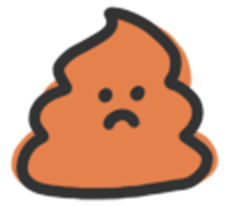
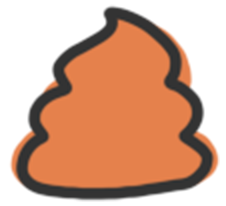
画像決まったのでオブジェクトのドロップ率使用を元に戻した

Changed region(s): [[0.4336, 0.4078, 0.6195, 0.6408], [0.5575, 0.4078, 0.6504, 0.4951]]

diff --git a/js/Obj.js b/js/Obj.js
@@ -34,11 +34,7 @@ class Obj {
   }
 
   draw(ctx) {
-    // if(this.type === 2){//うんちは縦長に描画
-    //   ctx.drawImage(this.image, this.x * BLOCK_W, this.y * BLOCK_H, BLOCK_W, BLOCK_H * 1.8);
-    //   return;
-    // }
-      ctx.drawImage(this.image, this.x * BLOCK_W, this.y * BLOCK_H, BLOCK_W, BLOCK_H);
+    ctx.drawImage(this.image, this.x * BLOCK_W, this.y * BLOCK_H, BLOCK_W, BLOCK_H);
   }
 
   move() {
@@ -74,8 +70,8 @@ class Apple extends Obj {
 
 class Unti extends Obj {
   constructor() {
-    const type = Math.random() < 0.5 ? 2 : 3; // 2か3をランダムに選択
-    super(type); }
+    super(2);
+  }
   draw(ctx) {
     super.draw(ctx);
   }

diff --git a/js/Images.js b/js/Images.js
@@ -33,7 +33,7 @@ class Images {
     this.saru_close_apple_l = this.loadImage("images/saru_02_apple_l@2x.png");
     
     // オブジェクト
-    this.items = this.loadImages2x('item', 4); // 0:バナナ, 1:リンゴ, 2:うんち(顔あり), 3:うんち（顔なし）
+    this.items = this.loadImages2x('item', 3); // 0:バナナ, 1:リンゴ, 2:うんち
 
     // さるガール
     // this.saru_girl = this.loadImage("images/saru_girl@2x.png");
